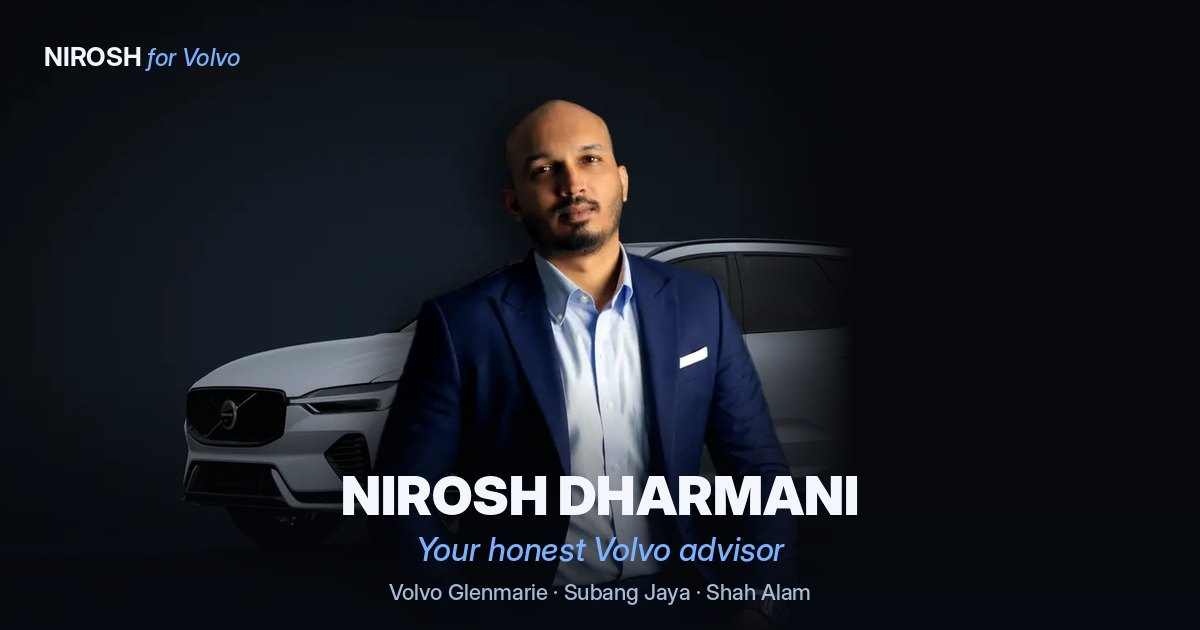
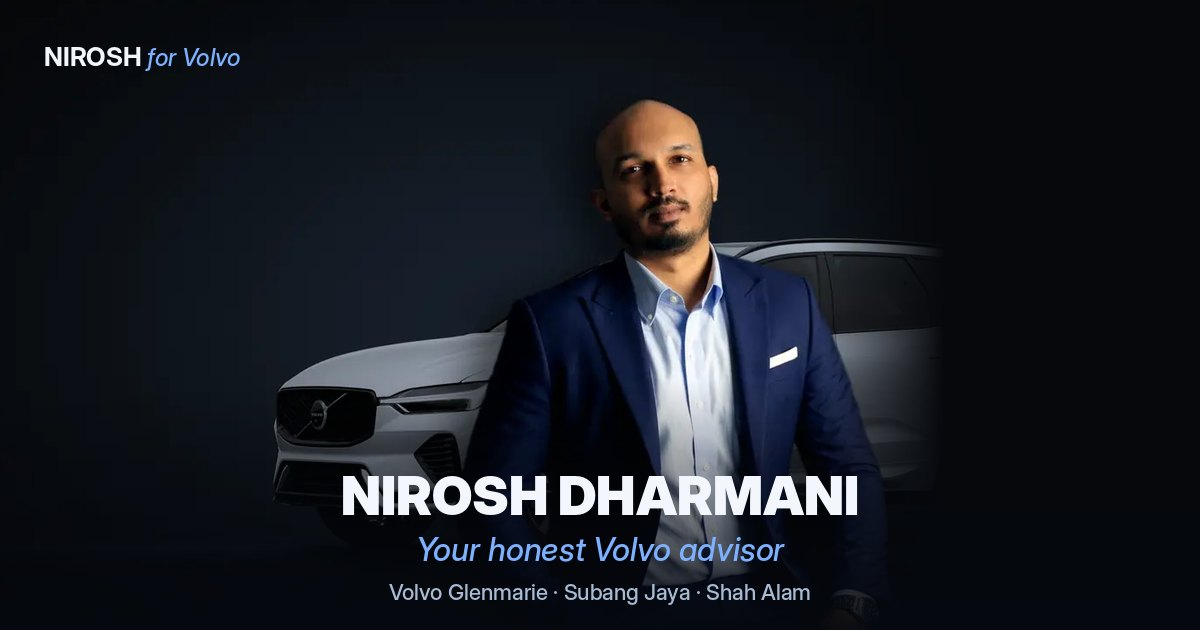
Home preview: Volvo left, Nirosh right

Changed region(s): [[0.1542, 0.1508, 0.7708, 0.9349], [0.7092, 0.9349, 0.74, 0.9651], [0.6167, 0.9349, 0.6475, 0.9651]]

diff --git a/volvo-ex30cc-malaysia.html b/volvo-ex30cc-malaysia.html
@@ -14,9 +14,9 @@
 <meta name="theme-color" content="#0A1F3D">
 <meta property="og:type" content="website"><meta property="og:site_name" content="Drive with Nirosh"><meta property="og:locale" content="en_MY">
 <meta property="og:url" content="https://drivewithnirosh.com/volvo-ex30cc-malaysia.html"><meta property="og:title" content="Volvo EX30 Cross Country Price in Malaysia 2026: Specs &amp; Honest Review"><meta property="og:description" content="Volvo EX30 Cross Country from RM218,888: specs, a monthly instalment example and an honest take from Nirosh Dharmani at Volvo Glenmarie, near Subang Jaya.">
-<meta property="og:image" content="https://drivewithnirosh.com/img/og/volvo-ex30cc.jpg?v=2"><meta property="og:image:secure_url" content="https://drivewithnirosh.com/img/og/volvo-ex30cc.jpg?v=2"><meta property="og:image:type" content="image/jpeg">
+<meta property="og:image" content="https://drivewithnirosh.com/img/og/volvo-ex30cc.jpg?v=3"><meta property="og:image:secure_url" content="https://drivewithnirosh.com/img/og/volvo-ex30cc.jpg?v=3"><meta property="og:image:type" content="image/jpeg">
 <meta property="og:image:width" content="1200"><meta property="og:image:height" content="630"><meta property="og:image:alt" content="Volvo EX30 Cross Country from RM218,888, with Nirosh Dharmani at Volvo Glenmarie">
-<meta name="twitter:card" content="summary_large_image"><meta name="twitter:title" content="Volvo EX30 Cross Country Price in Malaysia 2026: Specs &amp; Honest Review"><meta name="twitter:description" content="Volvo EX30 Cross Country from RM218,888: specs, a monthly instalment example and an honest take from Nirosh Dharmani at Volvo Glenmarie, near Subang Jaya."><meta name="twitter:image" content="https://drivewithnirosh.com/img/og/volvo-ex30cc.jpg?v=2">
+<meta name="twitter:card" content="summary_large_image"><meta name="twitter:title" content="Volvo EX30 Cross Country Price in Malaysia 2026: Specs &amp; Honest Review"><meta name="twitter:description" content="Volvo EX30 Cross Country from RM218,888: specs, a monthly instalment example and an honest take from Nirosh Dharmani at Volvo Glenmarie, near Subang Jaya."><meta name="twitter:image" content="https://drivewithnirosh.com/img/og/volvo-ex30cc.jpg?v=3">
 <link rel="preconnect" href="https://fonts.googleapis.com"><link rel="preconnect" href="https://fonts.gstatic.com" crossorigin>
 <link rel="stylesheet" href="https://fonts.googleapis.com/css2?family=Archivo:wdth,wght@62..125,300..900&family=Instrument+Serif:ital@0;1&display=swap">
 <script type="application/ld+json">[{"@context": "https://schema.org", "@type": "Car", "name": "Volvo EX30 Cross Country", "brand": {"@type": "Brand", "name": "Volvo"}, "model": "EX30 Cross Country", "description": "Volvo EX30 Cross Country: Raised, all-wheel-drive electric SUV. For weekends that end on a kampung road. Same compact cabin as the EX30.", "image": "https://drivewithnirosh.com/img/cars/volvo-ex30cc-side.webp", "seatingCapacity": 5, "fuelType": "Electricity", "url": "https://drivewithnirosh.com/volvo-ex30cc-malaysia.html", "offers": {"@type": "Offer", "priceCurrency": "MYR", "price": "218888", "availability": "https://schema.org/InStock", "areaServed": "Peninsular Malaysia", "url": "https://drivewithnirosh.com/book.html?car=ex30cc", "seller": {"@id": "https://drivewithnirosh.com/#nirosh"}}}, {"@context": "https://schema.org", "@type": "BreadcrumbList", "itemListElement": [{"@type": "ListItem", "position": 1, "name": "Drive with Nirosh", "item": "https://drivewithnirosh.com/"}, {"@type": "ListItem", "position": 2, "name": "Volvo models", "item": "https://drivewithnirosh.com/#models"}, {"@type": "ListItem", "position": 3, "name": "Volvo EX30 Cross Country", "item": "https://drivewithnirosh.com/volvo-ex30cc-malaysia.html"}]}, {"@context": "https://schema.org", "@type": "FAQPage", "mainEntity": [{"@type": "Question", "name": "How much is the Volvo EX30 Cross Country in Malaysia?", "acceptedAnswer": {"@type": "Answer", "text": "The Volvo EX30 Cross Country starts from RM218,888, the published starting price for Peninsular Malaysia. Prices change from time to time, so I'll confirm today's on-the-road price for your exact variant in writing, line by line."}}, {"@type": "Question", "name": "Can I test drive the Volvo EX30 Cross Country near Subang Jaya or Shah Alam?", "acceptedAnswer": {"@type": "Answer", "text": "Yes. Test drives run from Volvo Glenmarie in Shah Alam, a short drive from Subang Jaya, USJ and Petaling Jaya, and I can often bring the car to your home or office. You can compare up to three Volvos in one session."}}, {"@type": "Question", "name": "Is the Volvo EX30 Cross Country right for me?", "acceptedAnswer": {"@type": "Answer", "text": "For weekends that end on a kampung road. Same compact cabin as the EX30. Tell me how you drive and I'll give you a straight answer, even if it's a cheaper car or a different one."}}, {"@type": "Question", "name": "What would the monthly instalment be on a Volvo EX30 Cross Country?", "acceptedAnswer": {"@type": "Answer", "text": "As an example, with 10% down over 9 years at 3.00% flat, the Volvo EX30 Cross Country works out to about RM2,317 a month. Your actual rate depends on the bank and your profile; I'll get offers from the banks you choose and show them side by side."}}]}]</script>

diff --git a/volvo-xc90-malaysia.html b/volvo-xc90-malaysia.html
@@ -14,9 +14,9 @@
 <meta name="theme-color" content="#0A1F3D">
 <meta property="og:type" content="website"><meta property="og:site_name" content="Drive with Nirosh"><meta property="og:locale" content="en_MY">
 <meta property="og:url" content="https://drivewithnirosh.com/volvo-xc90-malaysia.html"><meta property="og:title" content="Volvo XC90 Price in Malaysia 2026: Specs &amp; Honest Review"><meta property="og:description" content="Volvo XC90 from RM418,888: specs, a monthly instalment example and an honest take from Nirosh Dharmani at Volvo Glenmarie, near Subang Jaya.">
-<meta property="og:image" content="https://drivewithnirosh.com/img/og/volvo-xc90.jpg?v=2"><meta property="og:image:secure_url" content="https://drivewithnirosh.com/img/og/volvo-xc90.jpg?v=2"><meta property="og:image:type" content="image/jpeg">
+<meta property="og:image" content="https://drivewithnirosh.com/img/og/volvo-xc90.jpg?v=3"><meta property="og:image:secure_url" content="https://drivewithnirosh.com/img/og/volvo-xc90.jpg?v=3"><meta property="og:image:type" content="image/jpeg">
 <meta property="og:image:width" content="1200"><meta property="og:image:height" content="630"><meta property="og:image:alt" content="Volvo XC90 from RM418,888, with Nirosh Dharmani at Volvo Glenmarie">
-<meta name="twitter:card" content="summary_large_image"><meta name="twitter:title" content="Volvo XC90 Price in Malaysia 2026: Specs &amp; Honest Review"><meta name="twitter:description" content="Volvo XC90 from RM418,888: specs, a monthly instalment example and an honest take from Nirosh Dharmani at Volvo Glenmarie, near Subang Jaya."><meta name="twitter:image" content="https://drivewithnirosh.com/img/og/volvo-xc90.jpg?v=2">
+<meta name="twitter:card" content="summary_large_image"><meta name="twitter:title" content="Volvo XC90 Price in Malaysia 2026: Specs &amp; Honest Review"><meta name="twitter:description" content="Volvo XC90 from RM418,888: specs, a monthly instalment example and an honest take from Nirosh Dharmani at Volvo Glenmarie, near Subang Jaya."><meta name="twitter:image" content="https://drivewithnirosh.com/img/og/volvo-xc90.jpg?v=3">
 <link rel="preconnect" href="https://fonts.googleapis.com"><link rel="preconnect" href="https://fonts.gstatic.com" crossorigin>
 <link rel="stylesheet" href="https://fonts.googleapis.com/css2?family=Archivo:wdth,wght@62..125,300..900&family=Instrument+Serif:ital@0;1&display=swap">
 <script type="application/ld+json">[{"@context": "https://schema.org", "@type": "Car", "name": "Volvo XC90", "brand": {"@type": "Brand", "name": "Volvo"}, "model": "XC90", "description": "Volvo XC90: Large 7-seat SUV, mild or plug-in hybrid. Seven real seats with no charger needed (B5), or the plug-in T8 if you can charge. Big for city-only driving.", "image": "https://drivewithnirosh.com/img/cars/volvo-xc90-side.webp", "seatingCapacity": 7, "fuelType": "Hybrid", "url": "https://drivewithnirosh.com/volvo-xc90-malaysia.html", "offers": {"@type": "Offer", "priceCurrency": "MYR", "price": "418888", "availability": "https://schema.org/InStock", "areaServed": "Peninsular Malaysia", "url": "https://drivewithnirosh.com/book.html?car=xc90", "seller": {"@id": "https://drivewithnirosh.com/#nirosh"}}}, {"@context": "https://schema.org", "@type": "BreadcrumbList", "itemListElement": [{"@type": "ListItem", "position": 1, "name": "Drive with Nirosh", "item": "https://drivewithnirosh.com/"}, {"@type": "ListItem", "position": 2, "name": "Volvo models", "item": "https://drivewithnirosh.com/#models"}, {"@type": "ListItem", "position": 3, "name": "Volvo XC90", "item": "https://drivewithnirosh.com/volvo-xc90-malaysia.html"}]}, {"@context": "https://schema.org", "@type": "FAQPage", "mainEntity": [{"@type": "Question", "name": "How much is the Volvo XC90 in Malaysia?", "acceptedAnswer": {"@type": "Answer", "text": "The Volvo XC90 starts from RM418,888, the published starting price for Peninsular Malaysia. Prices change from time to time, so I'll confirm today's on-the-road price for your exact variant in writing, line by line."}}, {"@type": "Question", "name": "Can I test drive the Volvo XC90 near Subang Jaya or Shah Alam?", "acceptedAnswer": {"@type": "Answer", "text": "Yes. Test drives run from Volvo Glenmarie in Shah Alam, a short drive from Subang Jaya, USJ and Petaling Jaya, and I can often bring the car to your home or office. You can compare up to three Volvos in one session."}}, {"@type": "Question", "name": "Is the Volvo XC90 right for me?", "acceptedAnswer": {"@type": "Answer", "text": "Seven real seats with no charger needed (B5), or the plug-in T8 if you can charge. Big for city-only driving. Tell me how you drive and I'll give you a straight answer, even if it's a cheaper car or a different one."}}, {"@type": "Question", "name": "What would the monthly instalment be on a Volvo XC90?", "acceptedAnswer": {"@type": "Answer", "text": "As an example, with 10% down over 9 years at 3.00% flat, the Volvo XC90 works out to about RM4,433 a month. Your actual rate depends on the bank and your profile; I'll get offers from the banks you choose and show them side by side."}}]}]</script>

diff --git a/volvo-ex30-malaysia.html b/volvo-ex30-malaysia.html
@@ -14,9 +14,9 @@
 <meta name="theme-color" content="#0A1F3D">
 <meta property="og:type" content="website"><meta property="og:site_name" content="Drive with Nirosh"><meta property="og:locale" content="en_MY">
 <meta property="og:url" content="https://drivewithnirosh.com/volvo-ex30-malaysia.html"><meta property="og:title" content="Volvo EX30 Price in Malaysia 2026: Specs &amp; Honest Review"><meta property="og:description" content="Volvo EX30 from RM198,888: specs, a monthly instalment example and an honest take from Nirosh Dharmani at Volvo Glenmarie, near Subang Jaya.">
-<meta property="og:image" content="https://drivewithnirosh.com/img/og/volvo-ex30.jpg?v=2"><meta property="og:image:secure_url" content="https://drivewithnirosh.com/img/og/volvo-ex30.jpg?v=2"><meta property="og:image:type" content="image/jpeg">
+<meta property="og:image" content="https://drivewithnirosh.com/img/og/volvo-ex30.jpg?v=3"><meta property="og:image:secure_url" content="https://drivewithnirosh.com/img/og/volvo-ex30.jpg?v=3"><meta property="og:image:type" content="image/jpeg">
 <meta property="og:image:width" content="1200"><meta property="og:image:height" content="630"><meta property="og:image:alt" content="Volvo EX30 from RM198,888, with Nirosh Dharmani at Volvo Glenmarie">
-<meta name="twitter:card" content="summary_large_image"><meta name="twitter:title" content="Volvo EX30 Price in Malaysia 2026: Specs &amp; Honest Review"><meta name="twitter:description" content="Volvo EX30 from RM198,888: specs, a monthly instalment example and an honest take from Nirosh Dharmani at Volvo Glenmarie, near Subang Jaya."><meta name="twitter:image" content="https://drivewithnirosh.com/img/og/volvo-ex30.jpg?v=2">
+<meta name="twitter:card" content="summary_large_image"><meta name="twitter:title" content="Volvo EX30 Price in Malaysia 2026: Specs &amp; Honest Review"><meta name="twitter:description" content="Volvo EX30 from RM198,888: specs, a monthly instalment example and an honest take from Nirosh Dharmani at Volvo Glenmarie, near Subang Jaya."><meta name="twitter:image" content="https://drivewithnirosh.com/img/og/volvo-ex30.jpg?v=3">
 <link rel="preconnect" href="https://fonts.googleapis.com"><link rel="preconnect" href="https://fonts.gstatic.com" crossorigin>
 <link rel="stylesheet" href="https://fonts.googleapis.com/css2?family=Archivo:wdth,wght@62..125,300..900&family=Instrument+Serif:ital@0;1&display=swap">
 <script type="application/ld+json">[{"@context": "https://schema.org", "@type": "Car", "name": "Volvo EX30", "brand": {"@type": "Brand", "name": "Volvo"}, "model": "EX30", "description": "Volvo EX30: Fully electric compact SUV. Brilliant for city couples and young families. If you often carry five adults, look at the EC40 first.", "image": "https://drivewithnirosh.com/img/cars/volvo-ex30-side.webp", "seatingCapacity": 5, "fuelType": "Electricity", "url": "https://drivewithnirosh.com/volvo-ex30-malaysia.html", "offers": {"@type": "Offer", "priceCurrency": "MYR", "price": "198888", "availability": "https://schema.org/InStock", "areaServed": "Peninsular Malaysia", "url": "https://drivewithnirosh.com/book.html?car=ex30", "seller": {"@id": "https://drivewithnirosh.com/#nirosh"}}}, {"@context": "https://schema.org", "@type": "BreadcrumbList", "itemListElement": [{"@type": "ListItem", "position": 1, "name": "Drive with Nirosh", "item": "https://drivewithnirosh.com/"}, {"@type": "ListItem", "position": 2, "name": "Volvo models", "item": "https://drivewithnirosh.com/#models"}, {"@type": "ListItem", "position": 3, "name": "Volvo EX30", "item": "https://drivewithnirosh.com/volvo-ex30-malaysia.html"}]}, {"@context": "https://schema.org", "@type": "FAQPage", "mainEntity": [{"@type": "Question", "name": "How much is the Volvo EX30 in Malaysia?", "acceptedAnswer": {"@type": "Answer", "text": "The Volvo EX30 starts from RM198,888, the published starting price for Peninsular Malaysia. Prices change from time to time, so I'll confirm today's on-the-road price for your exact variant in writing, line by line."}}, {"@type": "Question", "name": "Can I test drive the Volvo EX30 near Subang Jaya or Shah Alam?", "acceptedAnswer": {"@type": "Answer", "text": "Yes. Test drives run from Volvo Glenmarie in Shah Alam, a short drive from Subang Jaya, USJ and Petaling Jaya, and I can often bring the car to your home or office. You can compare up to three Volvos in one session."}}, {"@type": "Question", "name": "Is the Volvo EX30 right for me?", "acceptedAnswer": {"@type": "Answer", "text": "Brilliant for city couples and young families. If you often carry five adults, look at the EC40 first. Tell me how you drive and I'll give you a straight answer, even if it's a cheaper car or a different one."}}, {"@type": "Question", "name": "What would the monthly instalment be on a Volvo EX30?", "acceptedAnswer": {"@type": "Answer", "text": "As an example, with 10% down over 9 years at 3.00% flat, the Volvo EX30 works out to about RM2,105 a month. Your actual rate depends on the bank and your profile; I'll get offers from the banks you choose and show them side by side."}}]}]</script>

diff --git a/volvo-ec40-malaysia.html b/volvo-ec40-malaysia.html
@@ -14,9 +14,9 @@
 <meta name="theme-color" content="#0A1F3D">
 <meta property="og:type" content="website"><meta property="og:site_name" content="Drive with Nirosh"><meta property="og:locale" content="en_MY">
 <meta property="og:url" content="https://drivewithnirosh.com/volvo-ec40-malaysia.html"><meta property="og:title" content="Volvo EC40 Price in Malaysia 2026: Specs &amp; Honest Review"><meta property="og:description" content="Volvo EC40 from RM248,888: specs, a monthly instalment example and an honest take from Nirosh Dharmani at Volvo Glenmarie, near Subang Jaya.">
-<meta property="og:image" content="https://drivewithnirosh.com/img/og/volvo-ec40.jpg?v=2"><meta property="og:image:secure_url" content="https://drivewithnirosh.com/img/og/volvo-ec40.jpg?v=2"><meta property="og:image:type" content="image/jpeg">
+<meta property="og:image" content="https://drivewithnirosh.com/img/og/volvo-ec40.jpg?v=3"><meta property="og:image:secure_url" content="https://drivewithnirosh.com/img/og/volvo-ec40.jpg?v=3"><meta property="og:image:type" content="image/jpeg">
 <meta property="og:image:width" content="1200"><meta property="og:image:height" content="630"><meta property="og:image:alt" content="Volvo EC40 from RM248,888, with Nirosh Dharmani at Volvo Glenmarie">
-<meta name="twitter:card" content="summary_large_image"><meta name="twitter:title" content="Volvo EC40 Price in Malaysia 2026: Specs &amp; Honest Review"><meta name="twitter:description" content="Volvo EC40 from RM248,888: specs, a monthly instalment example and an honest take from Nirosh Dharmani at Volvo Glenmarie, near Subang Jaya."><meta name="twitter:image" content="https://drivewithnirosh.com/img/og/volvo-ec40.jpg?v=2">
+<meta name="twitter:card" content="summary_large_image"><meta name="twitter:title" content="Volvo EC40 Price in Malaysia 2026: Specs &amp; Honest Review"><meta name="twitter:description" content="Volvo EC40 from RM248,888: specs, a monthly instalment example and an honest take from Nirosh Dharmani at Volvo Glenmarie, near Subang Jaya."><meta name="twitter:image" content="https://drivewithnirosh.com/img/og/volvo-ec40.jpg?v=3">
 <link rel="preconnect" href="https://fonts.googleapis.com"><link rel="preconnect" href="https://fonts.gstatic.com" crossorigin>
 <link rel="stylesheet" href="https://fonts.googleapis.com/css2?family=Archivo:wdth,wght@62..125,300..900&family=Instrument+Serif:ital@0;1&display=swap">
 <script type="application/ld+json">[{"@context": "https://schema.org", "@type": "Car", "name": "Volvo EC40", "brand": {"@type": "Brand", "name": "Volvo"}, "model": "EC40", "description": "Volvo EC40: Electric coupé-style SUV. The sweet spot for a family of four who can charge at home. Rear headroom is snug for tall adults.", "image": "https://drivewithnirosh.com/img/cars/volvo-ec40-side.webp", "seatingCapacity": 5, "fuelType": "Electricity", "url": "https://drivewithnirosh.com/volvo-ec40-malaysia.html", "offers": {"@type": "Offer", "priceCurrency": "MYR", "price": "248888", "availability": "https://schema.org/InStock", "areaServed": "Peninsular Malaysia", "url": "https://drivewithnirosh.com/book.html?car=ec40", "seller": {"@id": "https://drivewithnirosh.com/#nirosh"}}}, {"@context": "https://schema.org", "@type": "BreadcrumbList", "itemListElement": [{"@type": "ListItem", "position": 1, "name": "Drive with Nirosh", "item": "https://drivewithnirosh.com/"}, {"@type": "ListItem", "position": 2, "name": "Volvo models", "item": "https://drivewithnirosh.com/#models"}, {"@type": "ListItem", "position": 3, "name": "Volvo EC40", "item": "https://drivewithnirosh.com/volvo-ec40-malaysia.html"}]}, {"@context": "https://schema.org", "@type": "FAQPage", "mainEntity": [{"@type": "Question", "name": "How much is the Volvo EC40 in Malaysia?", "acceptedAnswer": {"@type": "Answer", "text": "The Volvo EC40 starts from RM248,888, the published starting price for Peninsular Malaysia. Prices change from time to time, so I'll confirm today's on-the-road price for your exact variant in writing, line by line."}}, {"@type": "Question", "name": "Can I test drive the Volvo EC40 near Subang Jaya or Shah Alam?", "acceptedAnswer": {"@type": "Answer", "text": "Yes. Test drives run from Volvo Glenmarie in Shah Alam, a short drive from Subang Jaya, USJ and Petaling Jaya, and I can often bring the car to your home or office. You can compare up to three Volvos in one session."}}, {"@type": "Question", "name": "Is the Volvo EC40 right for me?", "acceptedAnswer": {"@type": "Answer", "text": "The sweet spot for a family of four who can charge at home. Rear headroom is snug for tall adults. Tell me how you drive and I'll give you a straight answer, even if it's a cheaper car or a different one."}}, {"@type": "Question", "name": "What would the monthly instalment be on a Volvo EC40?", "acceptedAnswer": {"@type": "Answer", "text": "As an example, with 10% down over 9 years at 3.00% flat, the Volvo EC40 works out to about RM2,634 a month. Your actual rate depends on the bank and your profile; I'll get offers from the banks you choose and show them side by side."}}]}]</script>

diff --git a/volvo-es90-malaysia.html b/volvo-es90-malaysia.html
@@ -14,9 +14,9 @@
 <meta name="theme-color" content="#0A1F3D">
 <meta property="og:type" content="website"><meta property="og:site_name" content="Drive with Nirosh"><meta property="og:locale" content="en_MY">
 <meta property="og:url" content="https://drivewithnirosh.com/volvo-es90-malaysia.html"><meta property="og:title" content="Volvo ES90 Price in Malaysia 2026: Specs &amp; Honest Review"><meta property="og:description" content="Volvo ES90 from RM339,888: specs, a monthly instalment example and an honest take from Nirosh Dharmani at Volvo Glenmarie, near Subang Jaya.">
-<meta property="og:image" content="https://drivewithnirosh.com/img/og/volvo-es90.jpg?v=2"><meta property="og:image:secure_url" content="https://drivewithnirosh.com/img/og/volvo-es90.jpg?v=2"><meta property="og:image:type" content="image/jpeg">
+<meta property="og:image" content="https://drivewithnirosh.com/img/og/volvo-es90.jpg?v=3"><meta property="og:image:secure_url" content="https://drivewithnirosh.com/img/og/volvo-es90.jpg?v=3"><meta property="og:image:type" content="image/jpeg">
 <meta property="og:image:width" content="1200"><meta property="og:image:height" content="630"><meta property="og:image:alt" content="Volvo ES90 from RM339,888, with Nirosh Dharmani at Volvo Glenmarie">
-<meta name="twitter:card" content="summary_large_image"><meta name="twitter:title" content="Volvo ES90 Price in Malaysia 2026: Specs &amp; Honest Review"><meta name="twitter:description" content="Volvo ES90 from RM339,888: specs, a monthly instalment example and an honest take from Nirosh Dharmani at Volvo Glenmarie, near Subang Jaya."><meta name="twitter:image" content="https://drivewithnirosh.com/img/og/volvo-es90.jpg?v=2">
+<meta name="twitter:card" content="summary_large_image"><meta name="twitter:title" content="Volvo ES90 Price in Malaysia 2026: Specs &amp; Honest Review"><meta name="twitter:description" content="Volvo ES90 from RM339,888: specs, a monthly instalment example and an honest take from Nirosh Dharmani at Volvo Glenmarie, near Subang Jaya."><meta name="twitter:image" content="https://drivewithnirosh.com/img/og/volvo-es90.jpg?v=3">
 <link rel="preconnect" href="https://fonts.googleapis.com"><link rel="preconnect" href="https://fonts.gstatic.com" crossorigin>
 <link rel="stylesheet" href="https://fonts.googleapis.com/css2?family=Archivo:wdth,wght@62..125,300..900&family=Instrument+Serif:ital@0;1&display=swap">
 <script type="application/ld+json">[{"@context": "https://schema.org", "@type": "Car", "name": "Volvo ES90", "brand": {"@type": "Brand", "name": "Volvo"}, "model": "ES90", "description": "Volvo ES90: Electric executive sedan. Made for the back seat as much as the front. Ideal if you're often driven, or drive clients.", "image": "https://drivewithnirosh.com/img/cars/volvo-es90-side.webp", "seatingCapacity": 5, "fuelType": "Electricity", "url": "https://drivewithnirosh.com/volvo-es90-malaysia.html", "offers": {"@type": "Offer", "priceCurrency": "MYR", "price": "339888", "availability": "https://schema.org/InStock", "areaServed": "Peninsular Malaysia", "url": "https://drivewithnirosh.com/book.html?car=es90", "seller": {"@id": "https://drivewithnirosh.com/#nirosh"}}}, {"@context": "https://schema.org", "@type": "BreadcrumbList", "itemListElement": [{"@type": "ListItem", "position": 1, "name": "Drive with Nirosh", "item": "https://drivewithnirosh.com/"}, {"@type": "ListItem", "position": 2, "name": "Volvo models", "item": "https://drivewithnirosh.com/#models"}, {"@type": "ListItem", "position": 3, "name": "Volvo ES90", "item": "https://drivewithnirosh.com/volvo-es90-malaysia.html"}]}, {"@context": "https://schema.org", "@type": "FAQPage", "mainEntity": [{"@type": "Question", "name": "How much is the Volvo ES90 in Malaysia?", "acceptedAnswer": {"@type": "Answer", "text": "The Volvo ES90 starts from RM339,888, the published starting price for Peninsular Malaysia. Prices change from time to time, so I'll confirm today's on-the-road price for your exact variant in writing, line by line."}}, {"@type": "Question", "name": "Can I test drive the Volvo ES90 near Subang Jaya or Shah Alam?", "acceptedAnswer": {"@type": "Answer", "text": "Yes. Test drives run from Volvo Glenmarie in Shah Alam, a short drive from Subang Jaya, USJ and Petaling Jaya, and I can often bring the car to your home or office. You can compare up to three Volvos in one session."}}, {"@type": "Question", "name": "Is the Volvo ES90 right for me?", "acceptedAnswer": {"@type": "Answer", "text": "Made for the back seat as much as the front. Ideal if you're often driven, or drive clients. Tell me how you drive and I'll give you a straight answer, even if it's a cheaper car or a different one."}}, {"@type": "Question", "name": "What would the monthly instalment be on a Volvo ES90?", "acceptedAnswer": {"@type": "Answer", "text": "As an example, with 10% down over 9 years at 3.00% flat, the Volvo ES90 works out to about RM3,597 a month. Your actual rate depends on the bank and your profile; I'll get offers from the banks you choose and show them side by side."}}]}]</script>

diff --git a/volvo-xc60-malaysia.html b/volvo-xc60-malaysia.html
@@ -14,9 +14,9 @@
 <meta name="theme-color" content="#0A1F3D">
 <meta property="og:type" content="website"><meta property="og:site_name" content="Drive with Nirosh"><meta property="og:locale" content="en_MY">
 <meta property="og:url" content="https://drivewithnirosh.com/volvo-xc60-malaysia.html"><meta property="og:title" content="Volvo XC60 Price in Malaysia 2026: Specs &amp; Honest Review"><meta property="og:description" content="Volvo XC60 from RM333,888: specs, a monthly instalment example and an honest take from Nirosh Dharmani at Volvo Glenmarie, near Subang Jaya.">
-<meta property="og:image" content="https://drivewithnirosh.com/img/og/volvo-xc60.jpg?v=2"><meta property="og:image:secure_url" content="https://drivewithnirosh.com/img/og/volvo-xc60.jpg?v=2"><meta property="og:image:type" content="image/jpeg">
+<meta property="og:image" content="https://drivewithnirosh.com/img/og/volvo-xc60.jpg?v=3"><meta property="og:image:secure_url" content="https://drivewithnirosh.com/img/og/volvo-xc60.jpg?v=3"><meta property="og:image:type" content="image/jpeg">
 <meta property="og:image:width" content="1200"><meta property="og:image:height" content="630"><meta property="og:image:alt" content="Volvo XC60 from RM333,888, with Nirosh Dharmani at Volvo Glenmarie">
-<meta name="twitter:card" content="summary_large_image"><meta name="twitter:title" content="Volvo XC60 Price in Malaysia 2026: Specs &amp; Honest Review"><meta name="twitter:description" content="Volvo XC60 from RM333,888: specs, a monthly instalment example and an honest take from Nirosh Dharmani at Volvo Glenmarie, near Subang Jaya."><meta name="twitter:image" content="https://drivewithnirosh.com/img/og/volvo-xc60.jpg?v=2">
+<meta name="twitter:card" content="summary_large_image"><meta name="twitter:title" content="Volvo XC60 Price in Malaysia 2026: Specs &amp; Honest Review"><meta name="twitter:description" content="Volvo XC60 from RM333,888: specs, a monthly instalment example and an honest take from Nirosh Dharmani at Volvo Glenmarie, near Subang Jaya."><meta name="twitter:image" content="https://drivewithnirosh.com/img/og/volvo-xc60.jpg?v=3">
 <link rel="preconnect" href="https://fonts.googleapis.com"><link rel="preconnect" href="https://fonts.gstatic.com" crossorigin>
 <link rel="stylesheet" href="https://fonts.googleapis.com/css2?family=Archivo:wdth,wght@62..125,300..900&family=Instrument+Serif:ital@0;1&display=swap">
 <script type="application/ld+json">[{"@context": "https://schema.org", "@type": "Car", "name": "Volvo XC60", "brand": {"@type": "Brand", "name": "Volvo"}, "model": "XC60", "description": "Volvo XC60: Mid-size SUV, mild or plug-in hybrid. The all-rounder for long drives to Ipoh or Melaka without thinking about chargers.", "image": "https://drivewithnirosh.com/img/cars/volvo-xc60-side.webp", "seatingCapacity": 5, "fuelType": "Hybrid", "url": "https://drivewithnirosh.com/volvo-xc60-malaysia.html", "offers": {"@type": "Offer", "priceCurrency": "MYR", "price": "333888", "availability": "https://schema.org/InStock", "areaServed": "Peninsular Malaysia", "url": "https://drivewithnirosh.com/book.html?car=xc60", "seller": {"@id": "https://drivewithnirosh.com/#nirosh"}}}, {"@context": "https://schema.org", "@type": "BreadcrumbList", "itemListElement": [{"@type": "ListItem", "position": 1, "name": "Drive with Nirosh", "item": "https://drivewithnirosh.com/"}, {"@type": "ListItem", "position": 2, "name": "Volvo models", "item": "https://drivewithnirosh.com/#models"}, {"@type": "ListItem", "position": 3, "name": "Volvo XC60", "item": "https://drivewithnirosh.com/volvo-xc60-malaysia.html"}]}, {"@context": "https://schema.org", "@type": "FAQPage", "mainEntity": [{"@type": "Question", "name": "How much is the Volvo XC60 in Malaysia?", "acceptedAnswer": {"@type": "Answer", "text": "The Volvo XC60 starts from RM333,888, the published starting price for Peninsular Malaysia. Prices change from time to time, so I'll confirm today's on-the-road price for your exact variant in writing, line by line."}}, {"@type": "Question", "name": "Can I test drive the Volvo XC60 near Subang Jaya or Shah Alam?", "acceptedAnswer": {"@type": "Answer", "text": "Yes. Test drives run from Volvo Glenmarie in Shah Alam, a short drive from Subang Jaya, USJ and Petaling Jaya, and I can often bring the car to your home or office. You can compare up to three Volvos in one session."}}, {"@type": "Question", "name": "Is the Volvo XC60 right for me?", "acceptedAnswer": {"@type": "Answer", "text": "The all-rounder for long drives to Ipoh or Melaka without thinking about chargers. Tell me how you drive and I'll give you a straight answer, even if it's a cheaper car or a different one."}}, {"@type": "Question", "name": "What would the monthly instalment be on a Volvo XC60?", "acceptedAnswer": {"@type": "Answer", "text": "As an example, with 10% down over 9 years at 3.00% flat, the Volvo XC60 works out to about RM3,534 a month. Your actual rate depends on the bank and your profile; I'll get offers from the banks you choose and show them side by side."}}]}]</script>

diff --git a/volvo-ex90-malaysia.html b/volvo-ex90-malaysia.html
@@ -14,9 +14,9 @@
 <meta name="theme-color" content="#0A1F3D">
 <meta property="og:type" content="website"><meta property="og:site_name" content="Drive with Nirosh"><meta property="og:locale" content="en_MY">
 <meta property="og:url" content="https://drivewithnirosh.com/volvo-ex90-malaysia.html"><meta property="og:title" content="Volvo EX90 Price in Malaysia 2026: Specs &amp; Honest Review"><meta property="og:description" content="Volvo EX90 from RM428,888: specs, a monthly instalment example and an honest take from Nirosh Dharmani at Volvo Glenmarie, near Subang Jaya.">
-<meta property="og:image" content="https://drivewithnirosh.com/img/og/volvo-ex90.jpg?v=2"><meta property="og:image:secure_url" content="https://drivewithnirosh.com/img/og/volvo-ex90.jpg?v=2"><meta property="og:image:type" content="image/jpeg">
+<meta property="og:image" content="https://drivewithnirosh.com/img/og/volvo-ex90.jpg?v=3"><meta property="og:image:secure_url" content="https://drivewithnirosh.com/img/og/volvo-ex90.jpg?v=3"><meta property="og:image:type" content="image/jpeg">
 <meta property="og:image:width" content="1200"><meta property="og:image:height" content="630"><meta property="og:image:alt" content="Volvo EX90 from RM428,888, with Nirosh Dharmani at Volvo Glenmarie">
-<meta name="twitter:card" content="summary_large_image"><meta name="twitter:title" content="Volvo EX90 Price in Malaysia 2026: Specs &amp; Honest Review"><meta name="twitter:description" content="Volvo EX90 from RM428,888: specs, a monthly instalment example and an honest take from Nirosh Dharmani at Volvo Glenmarie, near Subang Jaya."><meta name="twitter:image" content="https://drivewithnirosh.com/img/og/volvo-ex90.jpg?v=2">
+<meta name="twitter:card" content="summary_large_image"><meta name="twitter:title" content="Volvo EX90 Price in Malaysia 2026: Specs &amp; Honest Review"><meta name="twitter:description" content="Volvo EX90 from RM428,888: specs, a monthly instalment example and an honest take from Nirosh Dharmani at Volvo Glenmarie, near Subang Jaya."><meta name="twitter:image" content="https://drivewithnirosh.com/img/og/volvo-ex90.jpg?v=3">
 <link rel="preconnect" href="https://fonts.googleapis.com"><link rel="preconnect" href="https://fonts.gstatic.com" crossorigin>
 <link rel="stylesheet" href="https://fonts.googleapis.com/css2?family=Archivo:wdth,wght@62..125,300..900&family=Instrument+Serif:ital@0;1&display=swap">
 <script type="application/ld+json">[{"@context": "https://schema.org", "@type": "Car", "name": "Volvo EX90", "brand": {"@type": "Brand", "name": "Volvo"}, "model": "EX90", "description": "Volvo EX90: Large 7-seat electric SUV. The seven-seater for families with a home charger. Without one, choose the XC90.", "image": "https://drivewithnirosh.com/img/cars/volvo-ex90-side.webp", "seatingCapacity": 7, "fuelType": "Electricity", "url": "https://drivewithnirosh.com/volvo-ex90-malaysia.html", "offers": {"@type": "Offer", "priceCurrency": "MYR", "price": "428888", "availability": "https://schema.org/InStock", "areaServed": "Peninsular Malaysia", "url": "https://drivewithnirosh.com/book.html?car=ex90", "seller": {"@id": "https://drivewithnirosh.com/#nirosh"}}}, {"@context": "https://schema.org", "@type": "BreadcrumbList", "itemListElement": [{"@type": "ListItem", "position": 1, "name": "Drive with Nirosh", "item": "https://drivewithnirosh.com/"}, {"@type": "ListItem", "position": 2, "name": "Volvo models", "item": "https://drivewithnirosh.com/#models"}, {"@type": "ListItem", "position": 3, "name": "Volvo EX90", "item": "https://drivewithnirosh.com/volvo-ex90-malaysia.html"}]}, {"@context": "https://schema.org", "@type": "FAQPage", "mainEntity": [{"@type": "Question", "name": "How much is the Volvo EX90 in Malaysia?", "acceptedAnswer": {"@type": "Answer", "text": "The Volvo EX90 starts from RM428,888, the published starting price for Peninsular Malaysia. Prices change from time to time, so I'll confirm today's on-the-road price for your exact variant in writing, line by line."}}, {"@type": "Question", "name": "Can I test drive the Volvo EX90 near Subang Jaya or Shah Alam?", "acceptedAnswer": {"@type": "Answer", "text": "Yes. Test drives run from Volvo Glenmarie in Shah Alam, a short drive from Subang Jaya, USJ and Petaling Jaya, and I can often bring the car to your home or office. You can compare up to three Volvos in one session."}}, {"@type": "Question", "name": "Is the Volvo EX90 right for me?", "acceptedAnswer": {"@type": "Answer", "text": "The seven-seater for families with a home charger. Without one, choose the XC90. Tell me how you drive and I'll give you a straight answer, even if it's a cheaper car or a different one."}}, {"@type": "Question", "name": "What would the monthly instalment be on a Volvo EX90?", "acceptedAnswer": {"@type": "Answer", "text": "As an example, with 10% down over 9 years at 3.00% flat, the Volvo EX90 works out to about RM4,539 a month. Your actual rate depends on the bank and your profile; I'll get offers from the banks you choose and show them side by side."}}]}]</script>

diff --git a/gift.html b/gift.html
@@ -15,9 +15,9 @@
 <meta name="theme-color" content="#0A1F3D">
 <meta property="og:type" content="website"><meta property="og:site_name" content="Drive with Nirosh"><meta property="og:locale" content="en_MY">
 <meta property="og:url" content="https://drivewithnirosh.com/gift.html"><meta property="og:title" content="Surprise Volvo Handover Packages · Nirosh Dharmani"><meta property="og:description" content="Every Volvo Nirosh delivers comes with a free surprise reveal. Upgrade to balloons, a photographer or a personal film from RM1,300. Volvo Glenmarie, Shah Alam.">
-<meta property="og:image" content="https://drivewithnirosh.com/img/og/gift.jpg?v=2"><meta property="og:image:secure_url" content="https://drivewithnirosh.com/img/og/gift.jpg?v=2"><meta property="og:image:type" content="image/jpeg">
+<meta property="og:image" content="https://drivewithnirosh.com/img/og/gift.jpg?v=3"><meta property="og:image:secure_url" content="https://drivewithnirosh.com/img/og/gift.jpg?v=3"><meta property="og:image:type" content="image/jpeg">
 <meta property="og:image:width" content="1200"><meta property="og:image:height" content="630"><meta property="og:image:alt" content="A surprise Volvo handover with Nirosh Dharmani">
-<meta name="twitter:card" content="summary_large_image"><meta name="twitter:title" content="Surprise Volvo Handover Packages · Nirosh Dharmani"><meta name="twitter:description" content="Every Volvo Nirosh delivers comes with a free surprise reveal. Upgrade to balloons, a photographer or a personal film from RM1,300. Volvo Glenmarie, Shah Alam."><meta name="twitter:image" content="https://drivewithnirosh.com/img/og/gift.jpg?v=2">
+<meta name="twitter:card" content="summary_large_image"><meta name="twitter:title" content="Surprise Volvo Handover Packages · Nirosh Dharmani"><meta name="twitter:description" content="Every Volvo Nirosh delivers comes with a free surprise reveal. Upgrade to balloons, a photographer or a personal film from RM1,300. Volvo Glenmarie, Shah Alam."><meta name="twitter:image" content="https://drivewithnirosh.com/img/og/gift.jpg?v=3">
 <script type="application/ld+json">{"@context": "https://schema.org", "@type": "Service", "name": "Surprise Volvo handover", "serviceType": "Car handover celebration", "areaServed": "Klang Valley, Malaysia", "provider": {"@type": "Person", "name": "Nirosh Dharmani", "worksFor": {"@type": "AutoDealer", "name": "Volvo Glenmarie"}}, "url": "https://drivewithnirosh.com/gift.html", "offers": [{"@type": "Offer", "name": "The Reveal", "price": "0", "priceCurrency": "MYR"}, {"@type": "Offer", "name": "The Celebration", "price": "1300", "priceCurrency": "MYR"}, {"@type": "Offer", "name": "The Moment", "price": "1700", "priceCurrency": "MYR"}, {"@type": "Offer", "name": "The Story", "price": "2000", "priceCurrency": "MYR"}]}</script>
 <link rel="preconnect" href="https://fonts.googleapis.com">
 <link rel="preconnect" href="https://fonts.gstatic.com" crossorigin>

diff --git a/book.html b/book.html
@@ -15,9 +15,9 @@
 <meta name="theme-color" content="#0A1F3D">
 <meta property="og:type" content="website"><meta property="og:site_name" content="Drive with Nirosh"><meta property="og:locale" content="en_MY">
 <meta property="og:url" content="https://drivewithnirosh.com/book.html"><meta property="og:title" content="Book your Volvo · Nirosh Dharmani, Volvo Glenmarie"><meta property="og:description" content="Decided on your Volvo? Reserve it with Nirosh Dharmani at Volvo Glenmarie, near Subang Jaya, in three quick steps. Nothing is paid until every detail is in writing.">
-<meta property="og:image" content="https://drivewithnirosh.com/img/og/book.jpg?v=2"><meta property="og:image:secure_url" content="https://drivewithnirosh.com/img/og/book.jpg?v=2"><meta property="og:image:type" content="image/jpeg">
+<meta property="og:image" content="https://drivewithnirosh.com/img/og/book.jpg?v=3"><meta property="og:image:secure_url" content="https://drivewithnirosh.com/img/og/book.jpg?v=3"><meta property="og:image:type" content="image/jpeg">
 <meta property="og:image:width" content="1200"><meta property="og:image:height" content="630"><meta property="og:image:alt" content="Book your Volvo with Nirosh Dharmani at Volvo Glenmarie">
-<meta name="twitter:card" content="summary_large_image"><meta name="twitter:title" content="Book your Volvo · Nirosh Dharmani, Volvo Glenmarie"><meta name="twitter:description" content="Decided on your Volvo? Reserve it with Nirosh Dharmani at Volvo Glenmarie, near Subang Jaya, in three quick steps. Nothing is paid until every detail is in writing."><meta name="twitter:image" content="https://drivewithnirosh.com/img/og/book.jpg?v=2">
+<meta name="twitter:card" content="summary_large_image"><meta name="twitter:title" content="Book your Volvo · Nirosh Dharmani, Volvo Glenmarie"><meta name="twitter:description" content="Decided on your Volvo? Reserve it with Nirosh Dharmani at Volvo Glenmarie, near Subang Jaya, in three quick steps. Nothing is paid until every detail is in writing."><meta name="twitter:image" content="https://drivewithnirosh.com/img/og/book.jpg?v=3">
 <script type="application/ld+json">{"@context": "https://schema.org", "@type": "WebPage", "name": "Book your Volvo", "url": "https://drivewithnirosh.com/book.html", "breadcrumb": {"@type": "BreadcrumbList", "itemListElement": [{"@type": "ListItem", "position": 1, "name": "Nirosh Dharmani", "item": "https://drivewithnirosh.com/"}, {"@type": "ListItem", "position": 2, "name": "Book your Volvo", "item": "https://drivewithnirosh.com/book.html"}]}}</script>
 <link rel="preconnect" href="https://fonts.googleapis.com">
 <link rel="preconnect" href="https://fonts.gstatic.com" crossorigin>

diff --git a/index.html b/index.html
@@ -15,9 +15,9 @@
 <meta name="theme-color" content="#0A1F3D">
 <meta property="og:type" content="website"><meta property="og:site_name" content="Drive with Nirosh"><meta property="og:locale" content="en_MY">
 <meta property="og:url" content="https://drivewithnirosh.com/"><meta property="og:title" content="Nirosh Dharmani · Honest Volvo Sales Advisor, Subang Jaya"><meta property="og:description" content="Buying a Volvo near Subang Jaya or Shah Alam? Nirosh Dharmani at Volvo Glenmarie gives honest advice, test drives on your own routine, and every ringgit in writing.">
-<meta property="og:image" content="https://drivewithnirosh.com/img/og/home.jpg?v=2"><meta property="og:image:secure_url" content="https://drivewithnirosh.com/img/og/home.jpg?v=2"><meta property="og:image:type" content="image/jpeg">
+<meta property="og:image" content="https://drivewithnirosh.com/img/og/home.jpg?v=3"><meta property="og:image:secure_url" content="https://drivewithnirosh.com/img/og/home.jpg?v=3"><meta property="og:image:type" content="image/jpeg">
 <meta property="og:image:width" content="1200"><meta property="og:image:height" content="630"><meta property="og:image:alt" content="Nirosh Dharmani, honest Volvo Sales Advisor at Volvo Glenmarie, Shah Alam">
-<meta name="twitter:card" content="summary_large_image"><meta name="twitter:title" content="Nirosh Dharmani · Honest Volvo Sales Advisor, Subang Jaya"><meta name="twitter:description" content="Buying a Volvo near Subang Jaya or Shah Alam? Nirosh Dharmani at Volvo Glenmarie gives honest advice, test drives on your own routine, and every ringgit in writing."><meta name="twitter:image" content="https://drivewithnirosh.com/img/og/home.jpg?v=2">
+<meta name="twitter:card" content="summary_large_image"><meta name="twitter:title" content="Nirosh Dharmani · Honest Volvo Sales Advisor, Subang Jaya"><meta name="twitter:description" content="Buying a Volvo near Subang Jaya or Shah Alam? Nirosh Dharmani at Volvo Glenmarie gives honest advice, test drives on your own routine, and every ringgit in writing."><meta name="twitter:image" content="https://drivewithnirosh.com/img/og/home.jpg?v=3">
 <link rel="preconnect" href="https://fonts.googleapis.com">
 <link rel="preconnect" href="https://fonts.gstatic.com" crossorigin>
 <link rel="stylesheet" href="https://fonts.googleapis.com/css2?family=Archivo:wdth,wght@62..125,300..900&family=Instrument+Serif:ital@0;1&display=swap">
